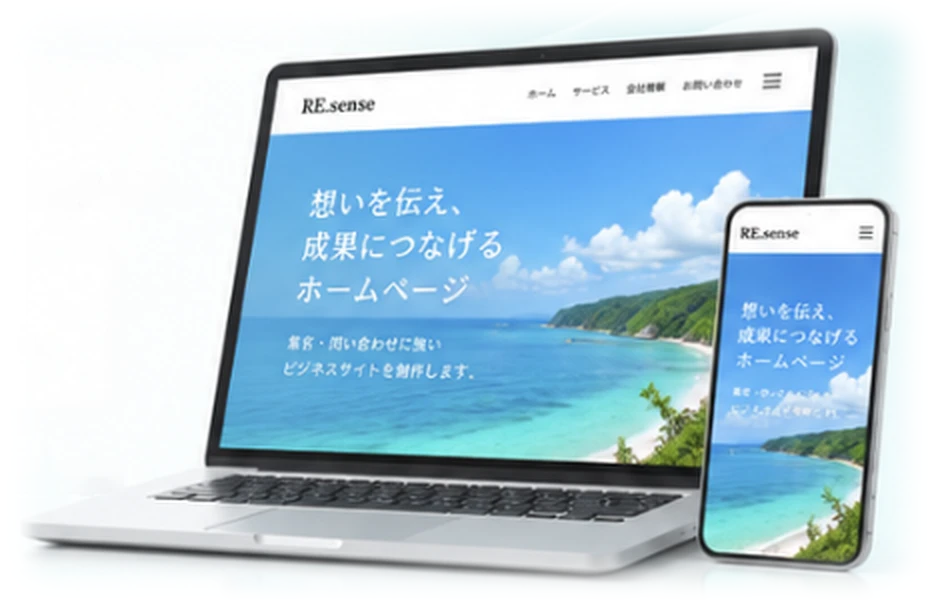
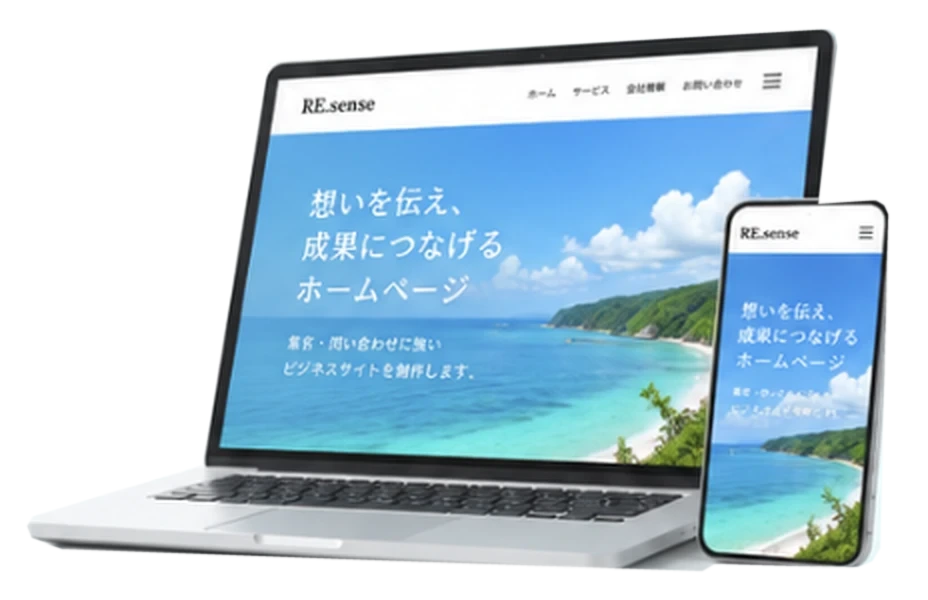
RE.sense：ノートPC画像の背景を透過、ceroの糸電話の位置を修正 (#11)
* RE.sense：リジェコミュニティ・DFS Collectiveの紹介ページと入会（Stripe）ボタン、規約ページ、問い合わせメールを追加

- トップのサービスに2事業を追加し、「詳しく見る」から各ページへ
- 入会ボタンは site.js の SITE.stripe に Payment Link を入れると決済ページへ（空なら準備中）
- 特商法表記・利用規約・プライバシーポリシー・紹介制度規約を legal/ に追加
- 会社情報を script.js から site.js に分けて全ページ共通に

Claude-Session: https://claude.ai/code/session_011FpAiawnsgZ5s7Qyxf33V2

* STATUS：info@resense-inc.com のメール転送設定が完了

Claude-Session: https://claude.ai/code/session_011FpAiawnsgZ5s7Qyxf33V2

* RE.sense：ceroの紹介ページを追加、リジェの紹介特典はチャンネル作成プラン会員のみと追記

Claude-Session: https://claude.ai/code/session_011FpAiawnsgZ5s7Qyxf33V2

* STATUS：info@ の受信テスト完了

Claude-Session: https://claude.ai/code/session_011FpAiawnsgZ5s7Qyxf33V2

* RE.sense：オンラインサロンのカードを削除、ceroのGoogle Playリンクと提供元の表記を追加

Claude-Session: https://claude.ai/code/session_011FpAiawnsgZ5s7Qyxf33V2

* RE.sense：トップの「オンラインサロン」をオンラインコミュニティに直し、ceroを追加（OGP画像も更新）

Claude-Session: https://claude.ai/code/session_011FpAiawnsgZ5s7Qyxf33V2

* RE.sense：トップに「今すぐ参加」ボタンとceroカードの新デザイン、ceroのロゴ・ボタン・糸電話・ストアボタンを修正

Claude-Session: https://claude.ai/code/session_011FpAiawnsgZ5s7Qyxf33V2

* RE.sense：ホームページ制作のカードと紹介ページを追加、テレアポのカードを削除、ボタンの高さをそろえる、ceroの代理店の画像を修正

Claude-Session: https://claude.ai/code/session_011FpAiawnsgZ5s7Qyxf33V2

* RE.sense：テレアポの文章を削除、ホームページ制作の女性の写真をフリー素材に、制作イメージの切り抜きを修正

Claude-Session: https://claude.ai/code/session_011FpAiawnsgZ5s7Qyxf33V2

* RE.sense：ホームページ制作のノートPCの画像を、左端が切れないように切り抜き直し

Claude-Session: https://claude.ai/code/session_011FpAiawnsgZ5s7Qyxf33V2
[…]

Changed region(s): [[0.5938, 0.03, 0.9688, 0.63], [0.0312, 0.9, 0.9375, 0.99], [0.5312, 0.06, 0.5625, 0.09]]

diff --git a/sites/re-sense/cero/index.html b/sites/re-sense/cero/index.html
@@ -43,7 +43,6 @@
     <img class="hero-p hero-l" src="images/lady.webp" alt="" width="248" height="255">
     <img class="hero-p hero-r" src="images/man.webp" alt="" width="225" height="255">
     <div class="wrap hero-in">
-      <p class="hero-kicker">あなたの会話は、あなたのものだ。</p>
       <h1 id="hero-title" class="hero-title">
         <span class="ln"><span>その会話、</span></span>
         <span class="ln"><span>残す必要がありますか？</span></span>

diff --git a/sites/re-sense/cero/style.css b/sites/re-sense/cero/style.css
@@ -249,3 +249,4 @@ ul{margin:0;padding:0;list-style:none}
 @media (max-width:767px){.hd-btns{gap:6px}.hd-btns a{min-height:44px;padding:0 12px;font-size:16px}.brand .logo-img{height:28px}}
 .agent-pic{width:clamp(160px,20vw,220px)}
 @media (min-width:900px){.agent-head h2{font-size:clamp(22px,2.5vw,30px)}.agent-head p:last-child{font-size:16px}}
+@media (min-width:768px){.hero-title{font-size:clamp(26px,4.4vw,62px)}.hero-in{padding-top:58px}}

diff --git a/sites/re-sense/web/style.css b/sites/re-sense/web/style.css
@@ -204,3 +204,4 @@ ul,ol{margin:0;padding:0;list-style:none}
 .lp-ft .mark{display:inline-flex;align-items:center;min-height:44px}
 .worry .ttl{font-size:clamp(22px,2.6vw,30px);white-space:nowrap;gap:12px}
 @media (max-width:480px){.worry .ttl::before,.worry .ttl::after{display:none}}
+.hero-pic img{filter:drop-shadow(0 24px 22px rgba(20,70,80,.18))}

diff --git a/sites/re-sense/style.css b/sites/re-sense/style.css
@@ -341,3 +341,4 @@ p{margin:0}
 .webcard-pic{width:100%;height:auto;max-width:560px;justify-self:center;transition:transform .8s var(--ease)}
 .webcard:hover .webcard-pic{transform:translateY(-6px) scale(1.02)}
 @media (max-width:899px){.webcard-pic{order:-1;max-width:420px}}
+.webcard-pic{filter:drop-shadow(0 20px 20px rgba(20,70,80,.18))}

diff --git a/sites/re-sense/cero/cero.js b/sites/re-sense/cero/cero.js
@@ -23,7 +23,7 @@
       const ir = img.getBoundingClientRect();
       return { x: ir.left - r.left + ir.width * fx, y: ir.top - r.top + ir.height * fy };
     };
-    a = pt(L, .78, .3); b = pt(Rr, .1, .33);
+    a = pt(L, .87, .42); b = pt(Rr, .08, .47);
   }
   function petal(p) {
     ctx.save();
